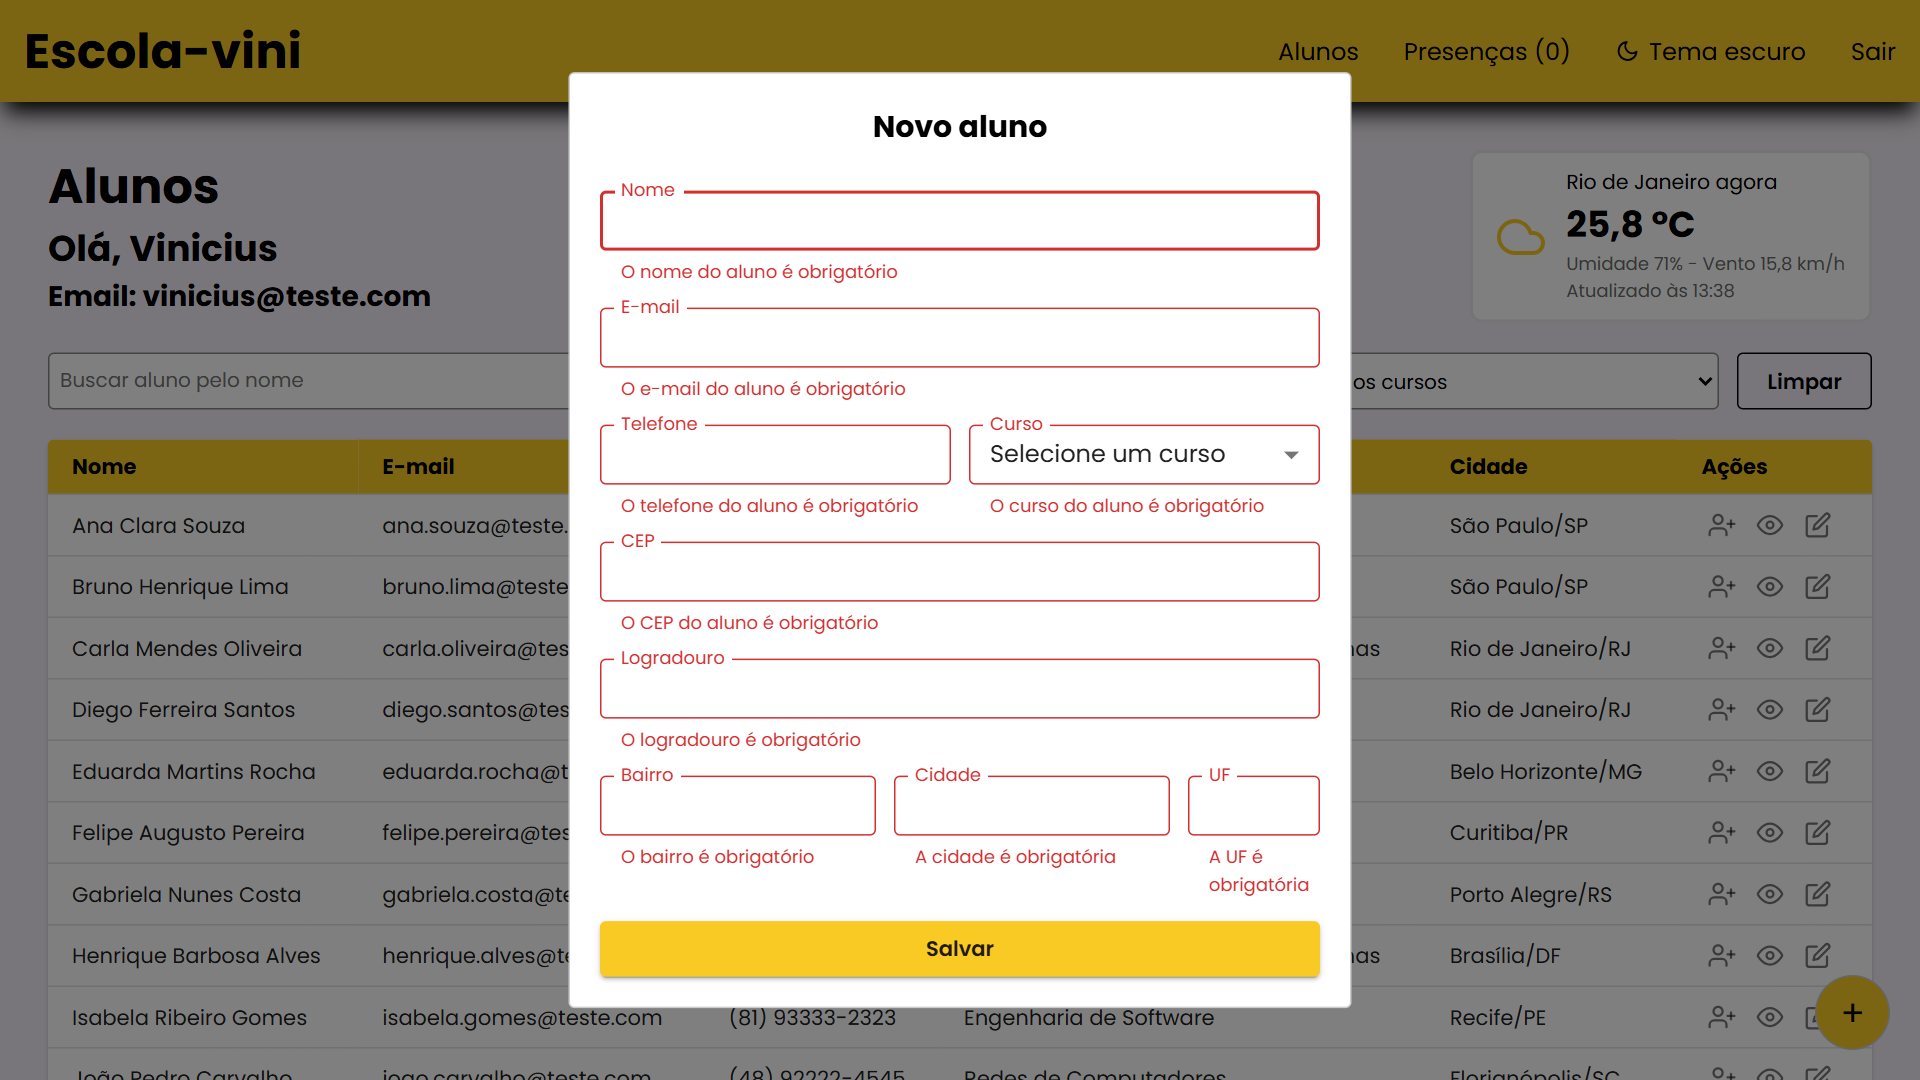
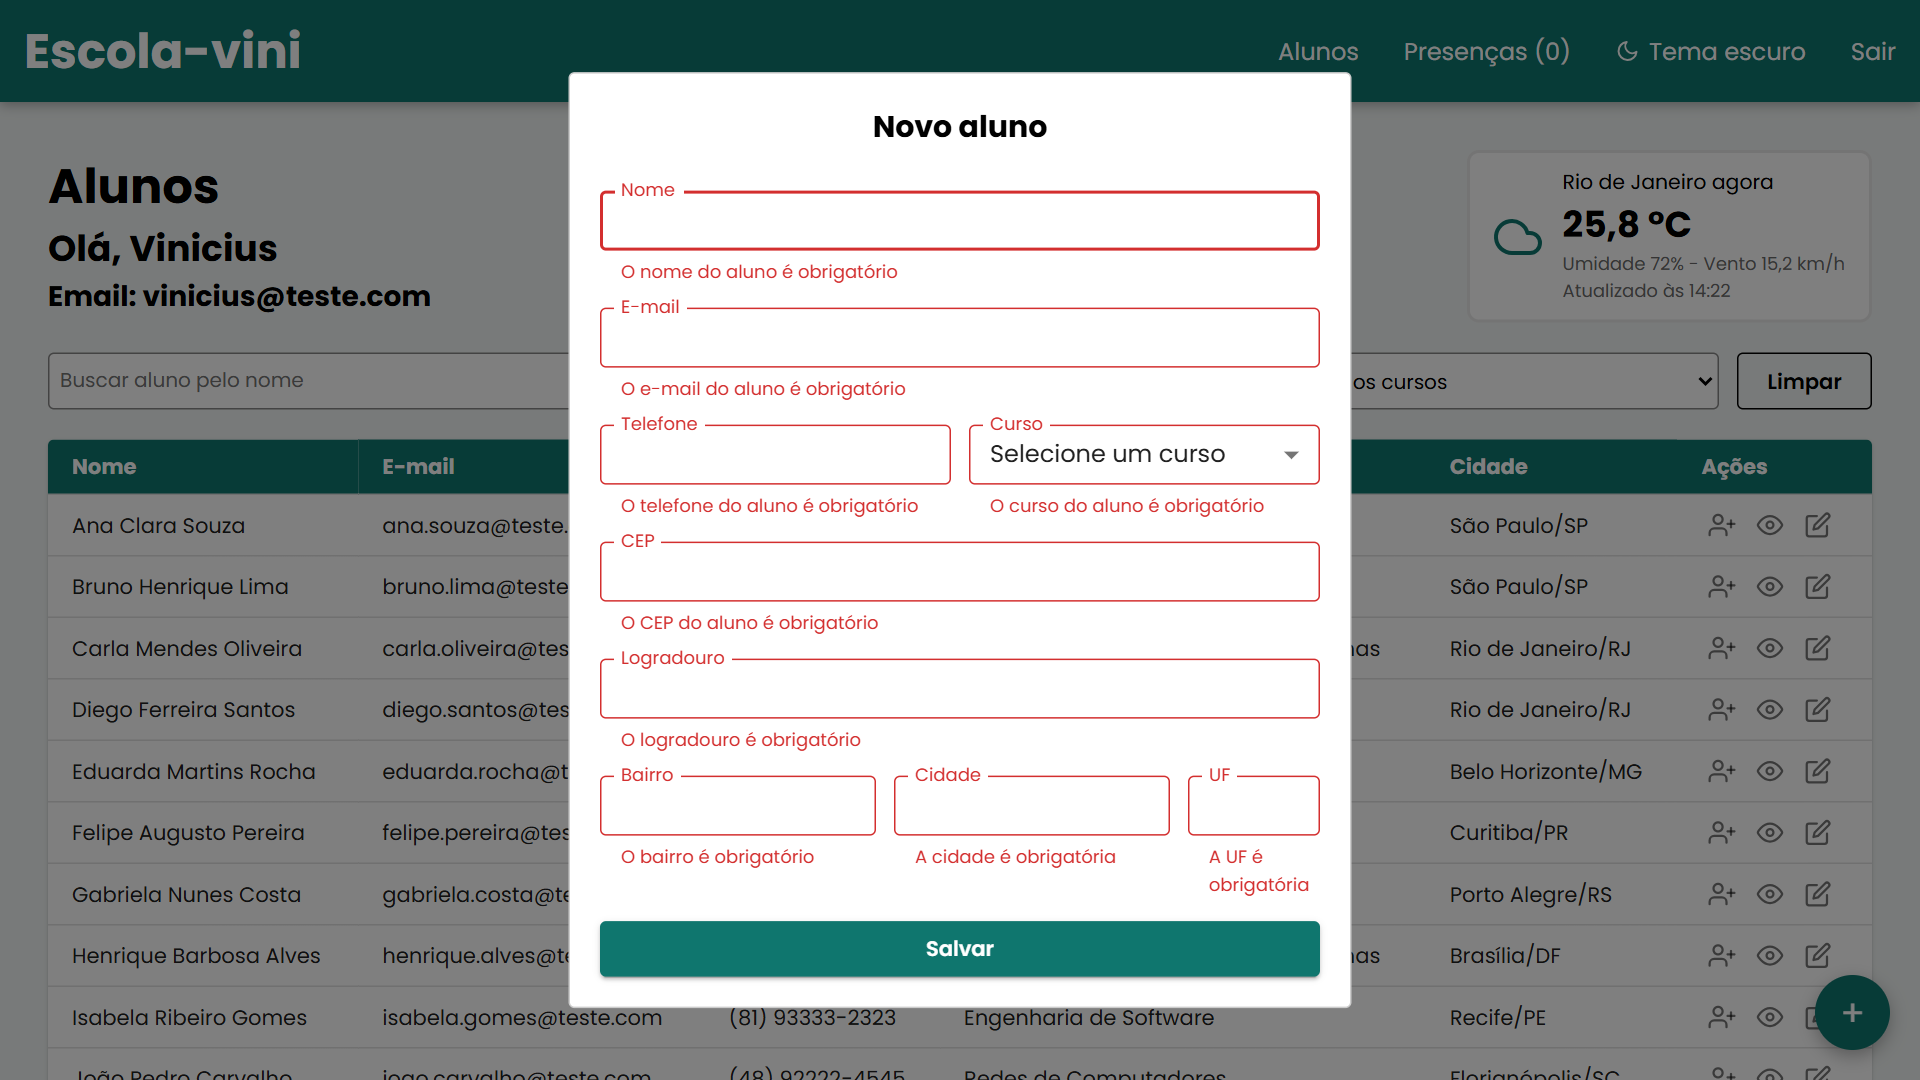
docs: atualiza o README e troca as telas pelas do visual novo

diff --git a/README.md b/README.md
@@ -132,7 +132,8 @@ trabalho-react-infnet-/
     ├── hooks/               useAuth, useFormulario e useCursos
     ├── contexts/            tema claro e escuro (Context API)
     ├── store/               lista de presença (Redux)
-    ├── service/             chamadas de API (alunos, ViaCEP e clima)
+    ├── service/             chamadas de API (alunos, cursos, ViaCEP e clima)
+    ├── schemas/             validação do formulário de aluno (Yup)
     └── utils/               avisos, mensagens de erro e chaves do localStorage
 ```
 
@@ -202,16 +203,16 @@ Os erros sempre vêm no formato `{ "erro": "mensagem" }`:
 | Componente de classe | `src/components/Footer/index.tsx` |
 | `useState` e `useEffect` | `src/hooks/useCursos.ts`, `src/components/AlunoForm/index.tsx` |
 | Hook personalizado | `src/hooks/useFormulario.ts`, `src/hooks/useCursos.ts` |
-| Context API | `src/contexts/` (tema claro e escuro) |
+| Context API | `src/contexts/themeContext.tsx` (tema claro e escuro) |
 | Redux, `useSelector` e `useDispatch` | `src/store/`, `src/components/Presencas`, `src/pages/home`, `src/templates/container` |
 | Formulário controlado | Login e filtro da lista |
-| Formulário não controlado com validação | `src/components/AlunoForm` (React Hook Form + Yup) |
-| Axios com GET, POST, PUT e DELETE | `src/service/alunos.ts` |
-| React Query (cache e atualização automática) | `src/pages/home`, `src/pages/detalhes`, `src/pages/editar`, `src/components/Clima` |
+| Formulário não controlado com validação | `src/components/AlunoForm` (React Hook Form) e `src/schemas/alunos.schema.ts` (Yup) |
+| Axios com GET, POST, PUT e DELETE | `src/service/alunos.ts` e `src/service/cursos.ts` |
+| React Query (cache e atualização automática) | `src/pages/home`, `src/pages/detalhes`, `src/pages/editar`, `src/components/Clima`, consulta do CEP em `src/components/AlunoForm` |
 | API real | ViaCEP em `src/service/viacep.ts` e Open-Meteo em `src/service/clima.ts` |
 | `Promise.race` e `AbortController` | `src/service/viacep.ts` |
 | React Router e rota privada | `src/App.tsx` e `src/components/PrivateRoute` |
-| Componentes de terceiros | Material UI na tabela, nos campos, nos botões e nos alertas |
+| Componentes de terceiros | Material UI na tabela, nos campos, nos botões e nos alertas, com as cores dos botões nos `styles.css` |
 | Tratamento de erros com alertas | `src/utils/erros.ts`, `src/utils/toast.ts` e os `onError` das páginas |
 
 ## Testes em navegadores
